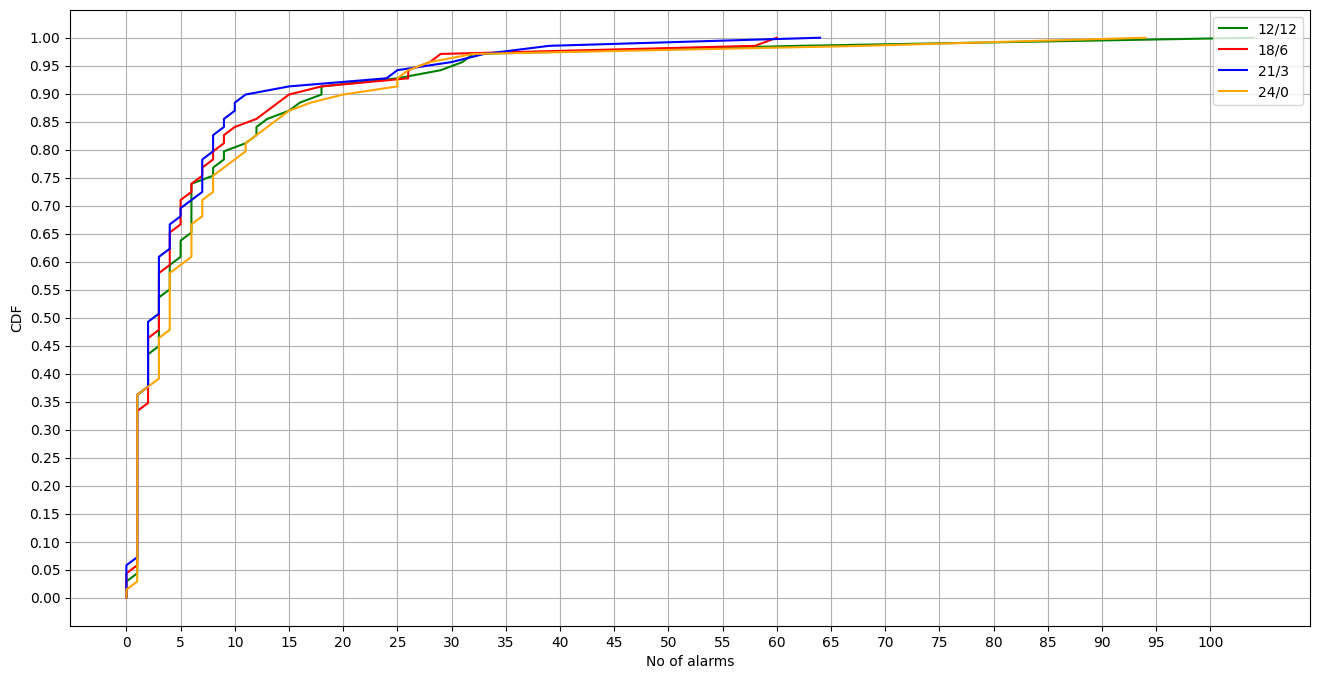
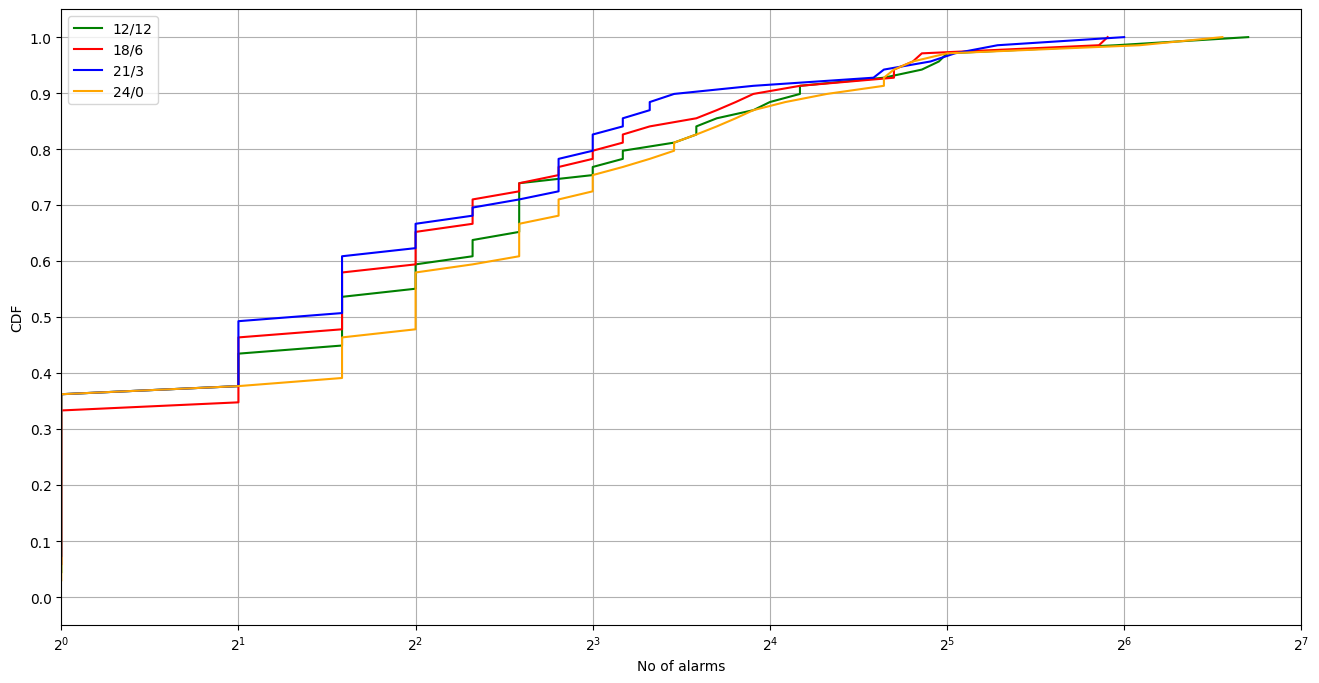
Update rtt graph

diff --git a/phase3_scripts/rtt_monitoring/rtt_link_monitoring.py b/phase3_scripts/rtt_monitoring/rtt_link_monitoring.py
@@ -38,7 +38,8 @@ median_dict = {}
 alarm_dict = {"alarms" : []}
 actual_rtt_dict = {}
 actual_rtt_dict_noalarm = {}
-
+actual_rtt_before = []
+actual_rtt_after = []
 for link in ref.keys():
     if link in links and len(links[link]["rtts"]) > 5:
         sorted_rtts = sorted(links[link]["rtts"])
@@ -62,12 +63,14 @@ for link in ref.keys():
                 actual_rtt_after = links[link]["actual_rtts"][index+1]
                 print("Actual RTT after", actual_rtt_after)
                 #actual_rtt_dict_noalarm[link] = (round(actual_rtt[0],5), round(actual_rtt[1],5))
-        #actual_rtt_dict_noalarm[link] = {
-            #"actual_rtt_before" : (round(actual_rtt_before[0],5), round(actual_rtt_before[1],5)),
-            #"actual_rtt_after" : (round(actual_rtt_after[0],5), round(actual_rtt_after[1],5))
-            #"actual_rtt_before" : actual_rtt_before,
-            #"actual_rtt_after" : actual_rtt_after
-        #}   
+            #if((actual_rtt_before != []) and (actual_rtt_after !=[])):
+            actual_rtt_dict_noalarm[link] = {
+                "actual_rtt_before" : (round(actual_rtt_before[0],5), round(actual_rtt_before[1],5)),
+                "actual_rtt_after" : (round(actual_rtt_after[0],5), round(actual_rtt_after[1],5))
+                #"actual_rtt_before" : actual_rtt_before,
+                #"actual_rtt_after" : actual_rtt_after
+            }
+            print(actual_rtt_dict_noalarm)
 
         median_dict[link] = {
             "lower_bd" : interval[0],

diff --git a/phase3_scripts/rtt_monitoring/rtt_monitoring_graph.py b/phase3_scripts/rtt_monitoring/rtt_monitoring_graph.py
@@ -75,15 +75,14 @@ for date in tqdm(range(delta.days + 1)):
             file4 = open("/home/csd/traceroutes/" + str(day) + "/" + hour + "00/actual_rtt_sw_alarms")
             actual_rtts = ujson.load(file4)
 
-            '''
+            
             file3 = open("/home/csd/traceroutes/" + str(day) + "/" + hour + "00/actual_rtt_sw_noalarms")
             actual_rtts_noalarms = ujson.load(file3)
-            actual_rtts_noalarms = list(actual_rtts_noalarms.values())
 
-            print("NORMAL VALUE FOR NEAR END  ACTUAL RTT IS:", np.median(actual_rtts_noalarms[0]))
-            print("NORMAL VALUE FOR FAR END ACTUAL RTT IS:", np.median(actual_rtts_noalarms[1]))
+            print("NORMAL VALUE FOR ACTUAL RTT IS:", actual_rtts_noalarms.keys())
+            #print("NORMAL VALUE FOR FAR END ACTUAL RTT IS:", np.median(actual_rtts_noalarms[1]))
 
-            '''
+            
             #if key in alarms["alarms"]:
             #    alarm_list.append(len(date_list) -1)
 
@@ -93,14 +92,16 @@ for date in tqdm(range(delta.days + 1)):
                 listToStr = ', '.join(map(str, actual_rtt))
                 actual_rtt_list.append((listToStr))
                 #print(listToStr)
+            print(actual_rtt_list)
             file2.close()
-            #file3.close()
+            file3.close()
             file4.close()
         else:
             print("INVALID LINK")
             sys.exit()
         
         file1.close()
+
 
 alarm_values = []
 for index in alarm_list:

diff --git a/phase3_scripts/rtt_monitoring/rtt_cdf_plot.py b/phase3_scripts/rtt_monitoring/rtt_cdf_plot.py
@@ -17,11 +17,13 @@ def cdf_plot(cdf_x_labels1,cdf_x_labels2,cdf_x_labels3,cdf_x_labels4):
     sortedlabels = np.sort(cdf_x_labels4)
     p = 1. * np.arange(len(cdf_x_labels4))/(len(cdf_x_labels4) - 1) 
     f4 = ax.plot(sortedlabels, p, color='orange')
-    plt.legend(('12/12','18/6', '21/3', '24/0'), loc = 'upper right', shadow=False, fancybox=True)
+    plt.legend(('12/12','18/6', '21/3', '24/0'), loc = 'upper left', shadow=False, fancybox=True)
     plt.xlabel("No of alarms")
+    plt.xscale('log', basex=2)
+    plt.xlim(1,128)
     plt.ylabel("CDF")
-    plt.xticks(np.arange(0, len(cdf_x_labels1), 5))
-    plt.yticks(np.arange(0, 1.05, 0.05))
+    #plt.xticks(np.arange(0, len(cdf_x_labels1), 5))
+    plt.yticks(np.arange(0, 1.05, 0.1))
     plt.grid(True)
     plt.savefig("../results/cdf.png", bbox_inches='tight')
     plt.close()
